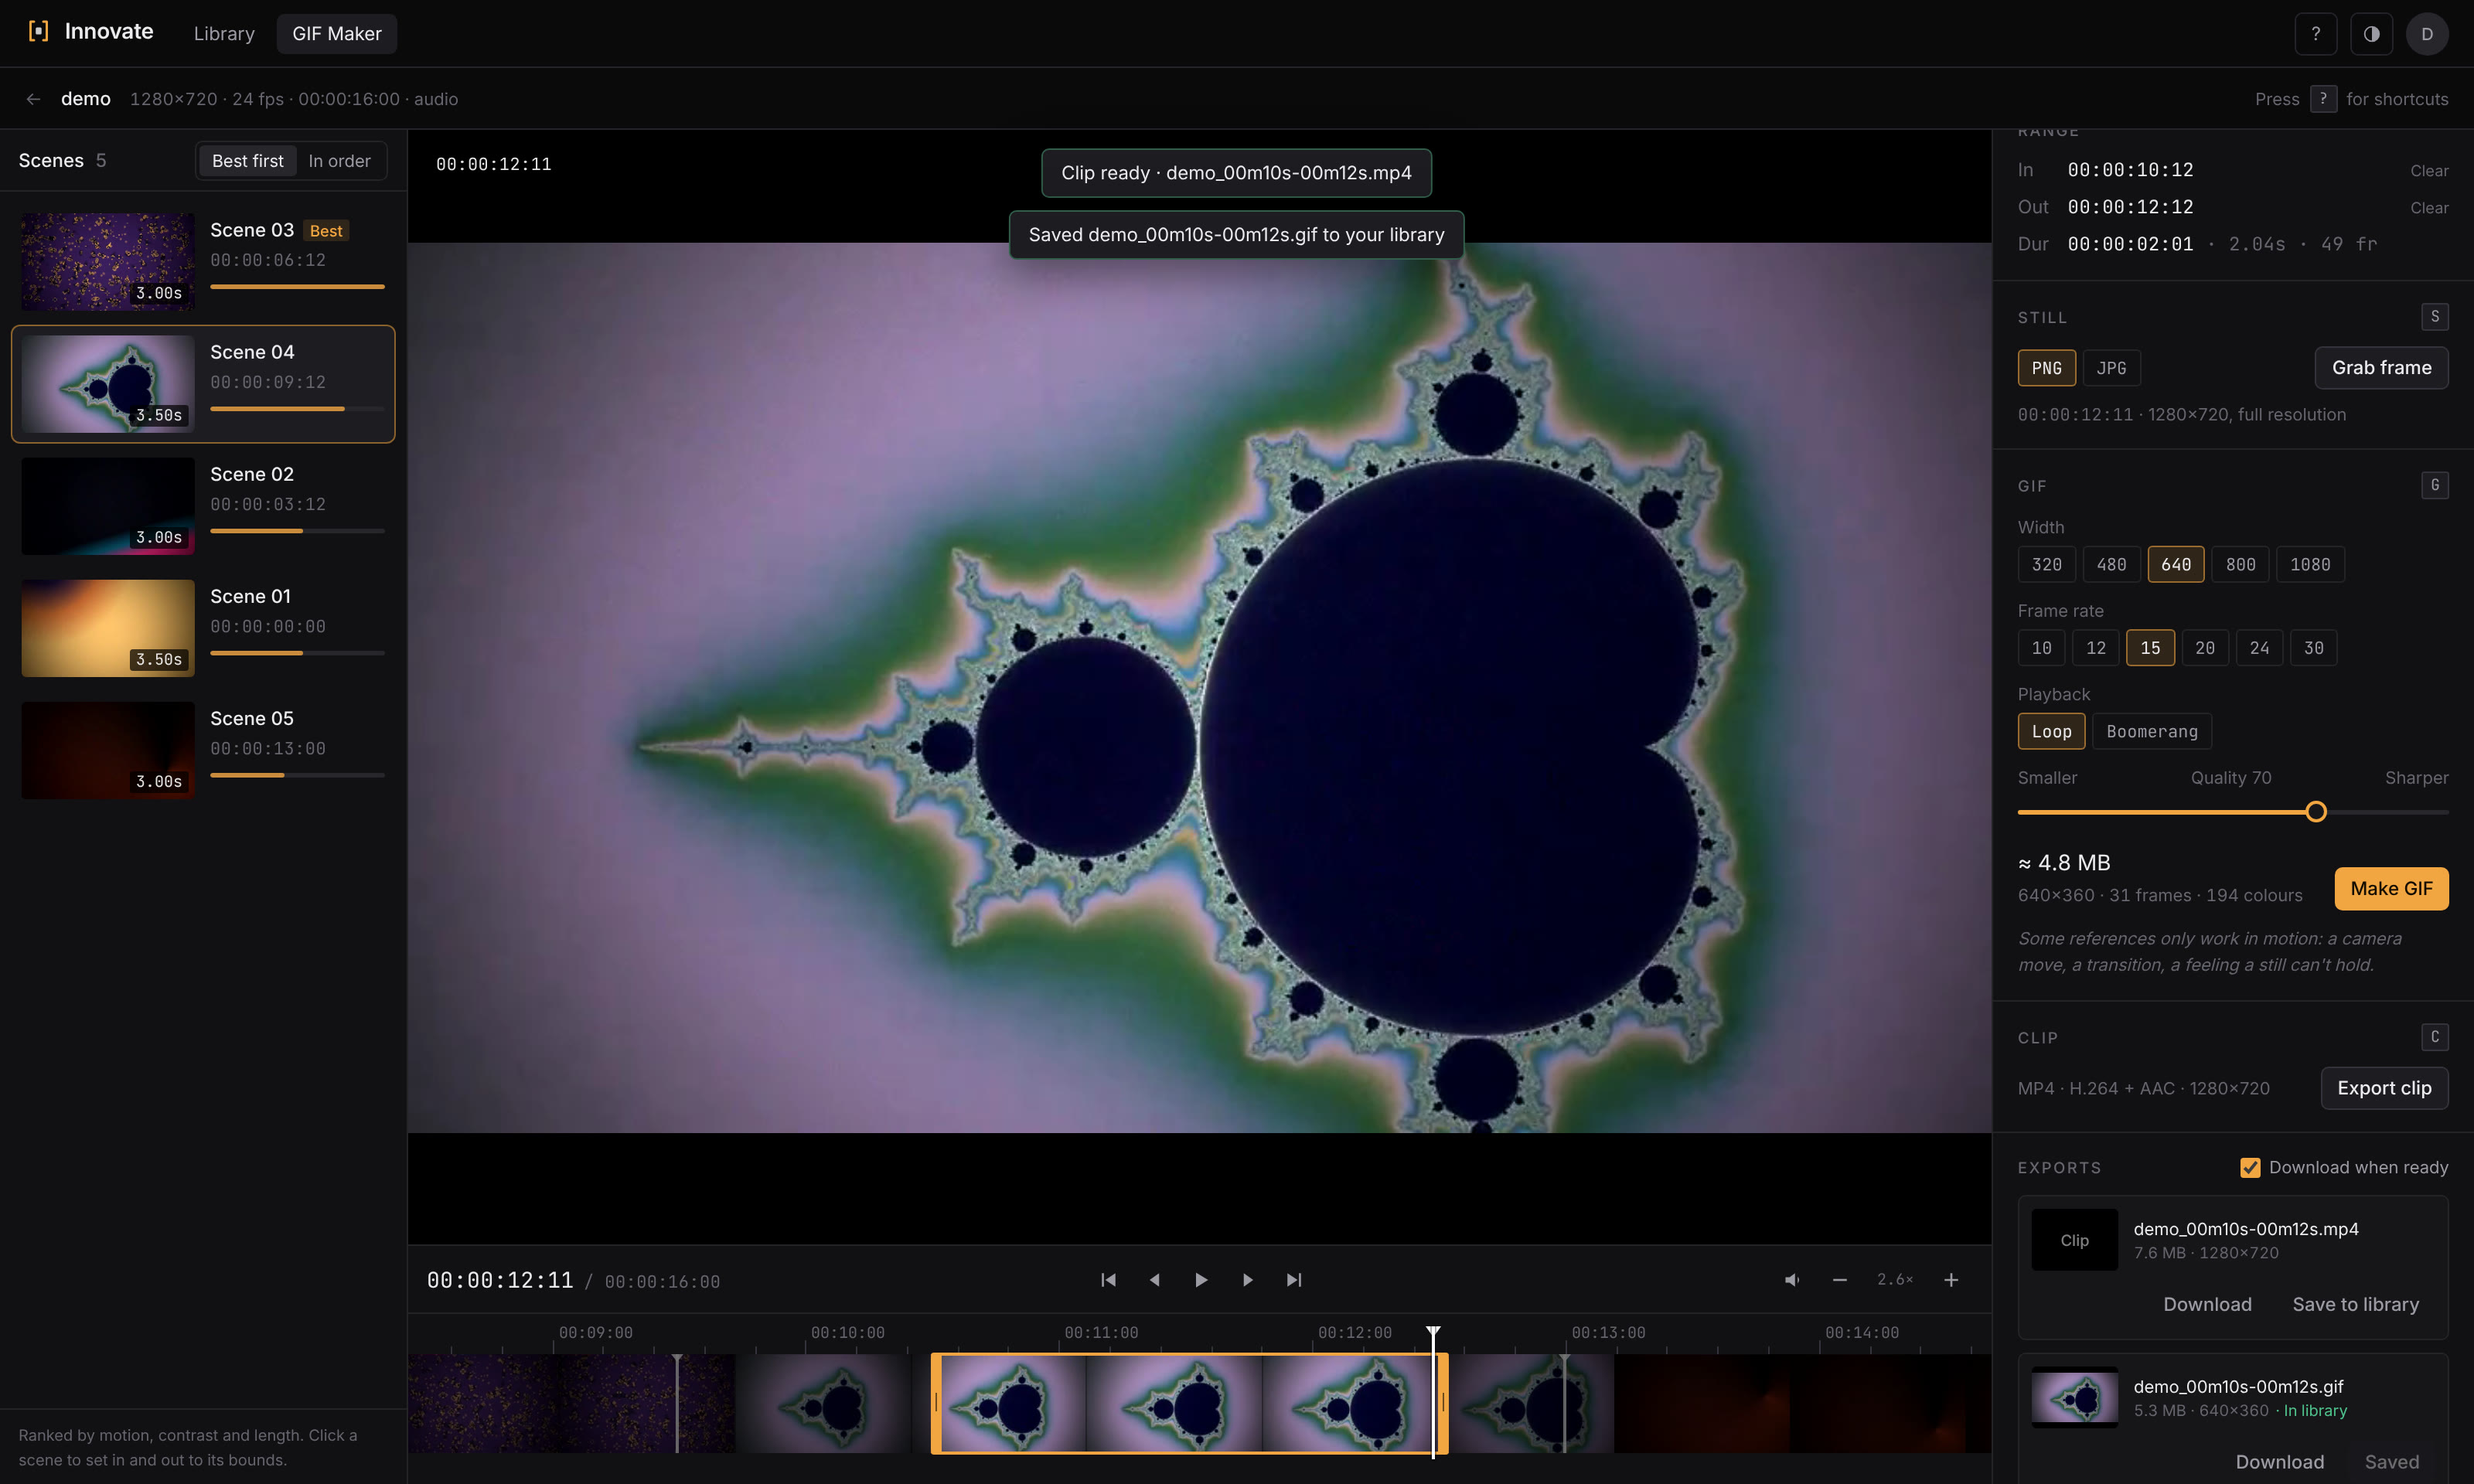
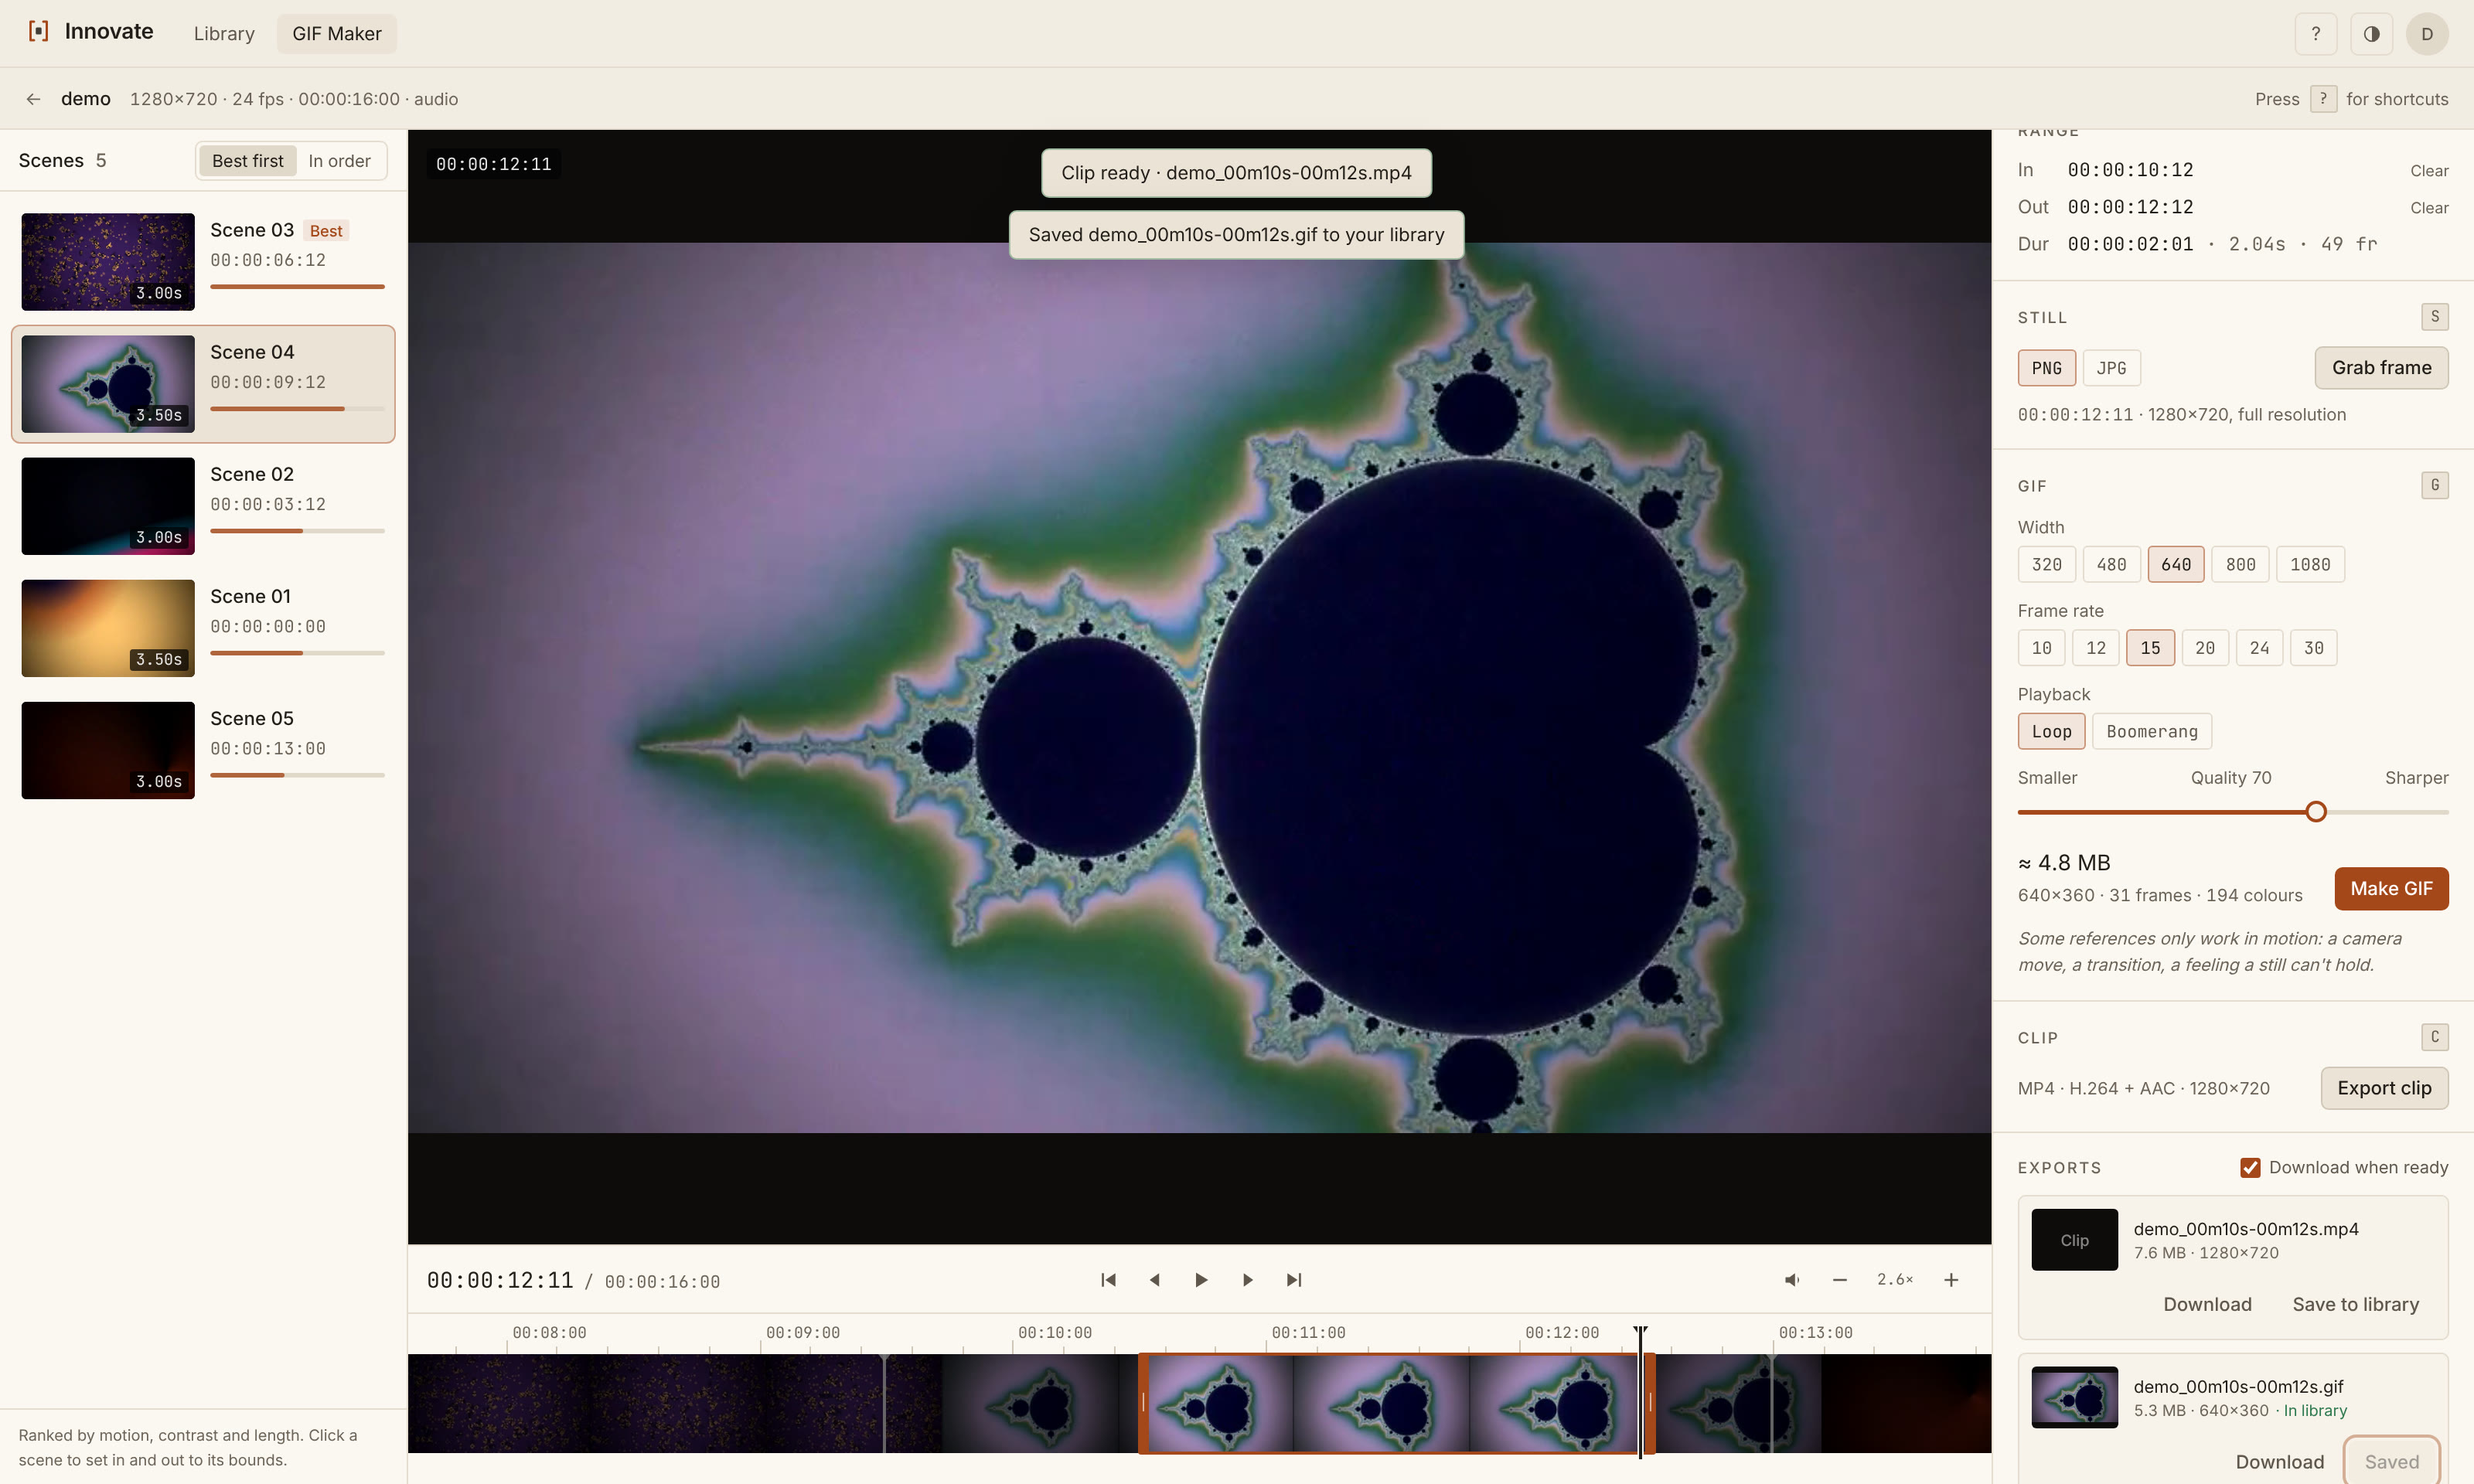
Innovate: default to a warm beige light theme
The app now opens in a light, paper-like theme (beige base, burnt-orange
accent, contrast checked against WCAG AA); dark stays available from the
toggle. The video player and filmstrip stay near-black in both themes so
footage colour reads true. This overrides SPEC §2's dark default, per the
product decision recorded in CLAUDE.md along with the Milanote-style
direction for M2 boards.

- tokens: new light palette, :root now light, dark under [data-theme=dark]
- playhead halo and softer shadows that work on paper and on footage
- screenshots retaken (light by default, plus the dark editor)

Claude-Session: https://claude.ai/code/session_01D2mtqCz3z1ammiFNoeLEXk

diff --git a/innovate/packages/shared/src/tokens.ts b/innovate/packages/shared/src/tokens.ts
@@ -1,5 +1,6 @@
 /**
  * Design tokens: the one place colors, spacing, type and radii are defined (SPEC §2).
+ * Decision (after M1): the app defaults to the warm light theme; dark is the alternative.
  * `pnpm tokens` renders them to tokens.css as CSS variables + a Tailwind v4 @theme block;
  * a unit test fails if tokens.css is stale. Canvas code reads the same CSS variables.
  */
@@ -27,27 +28,28 @@ export const colors = {
     scrim: "rgba(0, 0, 0, 0.72)",
     playhead: "#ffffff",
   },
+  /** Default: warm paper. The player and filmstrip stay near-black so footage colour reads true. */
   light: {
-    bg: "#f3f3f1",
-    surface: "#ffffff",
-    "surface-2": "#f8f8f6",
-    "surface-3": "#ededea",
-    "surface-4": "#e2e2de",
-    border: "#e0e0db",
-    "border-strong": "#c9c9c3",
-    text: "#141416",
-    "text-muted": "#5b5b64",
-    "text-faint": "#8b8b93",
-    accent: "#b46500",
-    "accent-strong": "#9a5600",
+    bg: "#f2ede3",
+    surface: "#fbf8f2",
+    "surface-2": "#f7f3ea",
+    "surface-3": "#ebe4d6",
+    "surface-4": "#e0d8c8",
+    border: "#e3dccf",
+    "border-strong": "#cfc6b5",
+    text: "#211d18",
+    "text-muted": "#5f574c",
+    "text-faint": "#6b6357",
+    accent: "#a4481a",
+    "accent-strong": "#8c3c13",
     "accent-fg": "#ffffff",
-    "accent-soft": "rgba(180, 101, 0, 0.12)",
-    "accent-line": "rgba(180, 101, 0, 0.55)",
-    danger: "#c93434",
-    success: "#1f8a5a",
-    player: "#0a0a0b",
-    scrim: "rgba(10, 10, 11, 0.6)",
-    playhead: "#141416",
+    "accent-soft": "rgba(164, 72, 26, 0.10)",
+    "accent-line": "rgba(164, 72, 26, 0.5)",
+    danger: "#b3261e",
+    success: "#2e7a4f",
+    player: "#0d0c0b",
+    scrim: "rgba(33, 29, 24, 0.45)",
+    playhead: "#211d18",
   },
 } as const;
 
@@ -87,8 +89,8 @@ export function renderTokensCss(): string {
     for (const [name, value] of Object.entries(colors[scheme])) lines.push(`  --in-${name}: ${value};`);
     lines.push("}");
   };
-  block(':root,\n[data-theme="dark"]', "dark");
-  block('[data-theme="light"]', "light");
+  block(':root,\n[data-theme="light"]', "light");
+  block('[data-theme="dark"]', "dark");
   lines.push(":root {");
   lines.push(`  --in-ease: ${motion.ease};`);
   lines.push(`  --in-fast: ${motion.fast};`);

diff --git a/innovate/packages/shared/tokens.css b/innovate/packages/shared/tokens.css
@@ -1,5 +1,28 @@
 /* GENERATED by packages/shared/scripts/build-tokens.ts from src/tokens.ts. Do not edit; run `pnpm tokens`. */
 :root,
+[data-theme="light"] {
+  color-scheme: light;
+  --in-bg: #f2ede3;
+  --in-surface: #fbf8f2;
+  --in-surface-2: #f7f3ea;
+  --in-surface-3: #ebe4d6;
+  --in-surface-4: #e0d8c8;
+  --in-border: #e3dccf;
+  --in-border-strong: #cfc6b5;
+  --in-text: #211d18;
+  --in-text-muted: #5f574c;
+  --in-text-faint: #6b6357;
+  --in-accent: #a4481a;
+  --in-accent-strong: #8c3c13;
+  --in-accent-fg: #ffffff;
+  --in-accent-soft: rgba(164, 72, 26, 0.10);
+  --in-accent-line: rgba(164, 72, 26, 0.5);
+  --in-danger: #b3261e;
+  --in-success: #2e7a4f;
+  --in-player: #0d0c0b;
+  --in-scrim: rgba(33, 29, 24, 0.45);
+  --in-playhead: #211d18;
+}
 [data-theme="dark"] {
   color-scheme: dark;
   --in-bg: #0a0a0b;
@@ -22,29 +45,6 @@
   --in-player: #000000;
   --in-scrim: rgba(0, 0, 0, 0.72);
   --in-playhead: #ffffff;
-}
-[data-theme="light"] {
-  color-scheme: light;
-  --in-bg: #f3f3f1;
-  --in-surface: #ffffff;
-  --in-surface-2: #f8f8f6;
-  --in-surface-3: #ededea;
-  --in-surface-4: #e2e2de;
-  --in-border: #e0e0db;
-  --in-border-strong: #c9c9c3;
-  --in-text: #141416;
-  --in-text-muted: #5b5b64;
-  --in-text-faint: #8b8b93;
-  --in-accent: #b46500;
-  --in-accent-strong: #9a5600;
-  --in-accent-fg: #ffffff;
-  --in-accent-soft: rgba(180, 101, 0, 0.12);
-  --in-accent-line: rgba(180, 101, 0, 0.55);
-  --in-danger: #c93434;
-  --in-success: #1f8a5a;
-  --in-player: #0a0a0b;
-  --in-scrim: rgba(10, 10, 11, 0.6);
-  --in-playhead: #141416;
 }
 :root {
   --in-ease: cubic-bezier(0.2, 0, 0, 1);

diff --git a/innovate/apps/web/components/shell/ShortcutsOverlay.tsx b/innovate/apps/web/components/shell/ShortcutsOverlay.tsx
@@ -29,7 +29,7 @@ export function ShortcutsProvider({ children }: { children: React.ReactNode }) {
           <Dialog.Overlay className="fixed inset-0 z-40 bg-scrim backdrop-blur-[2px]" />
           <Dialog.Content
             aria-describedby={undefined}
-            className="fixed top-1/2 left-1/2 z-50 max-h-[85vh] focus:outline-none w-[min(760px,calc(100vw-32px))] -translate-x-1/2 -translate-y-1/2 overflow-auto rounded-lg border border-border-strong bg-surface-2 p-6 shadow-[0_24px_80px_rgba(0,0,0,0.6)]"
+            className="fixed top-1/2 left-1/2 z-50 max-h-[85vh] focus:outline-none w-[min(760px,calc(100vw-32px))] -translate-x-1/2 -translate-y-1/2 overflow-auto rounded-lg border border-border-strong bg-surface-2 p-6 shadow-[0_24px_80px_rgba(0,0,0,0.28)]"
           >
             <div className="mb-5 flex items-baseline justify-between">
               <Dialog.Title className="text-lg font-semibold">Keyboard shortcuts</Dialog.Title>

diff --git a/innovate/apps/web/app/layout.tsx b/innovate/apps/web/app/layout.tsx
@@ -11,10 +11,10 @@ export const metadata: Metadata = {
   description: "Collect, cut and present visual references.",
 };
 
-export const viewport: Viewport = { themeColor: "#0a0a0b", colorScheme: "dark light" };
+export const viewport: Viewport = { themeColor: "#f2ede3", colorScheme: "dark light" };
 
 export default async function RootLayout({ children }: { children: React.ReactNode }) {
-  const theme = (await cookies()).get("innovate-theme")?.value === "light" ? "light" : "dark";
+  const theme = (await cookies()).get("innovate-theme")?.value === "dark" ? "dark" : "light";
   return (
     <html lang="en" data-theme={theme} className={`${inter.variable} ${mono.variable}`}>
       <body>{children}</body>

diff --git a/innovate/apps/web/components/editor/Timeline.tsx b/innovate/apps/web/components/editor/Timeline.tsx
@@ -307,7 +307,7 @@ export const Timeline = forwardRef<TimelineHandle, Props>(function Timeline(prop
           {/* Playhead. */}
           <div className="pointer-events-none absolute top-0" style={{ left: headX, height: HEIGHT - PAD_B + 4 }} data-testid="playhead">
             <div className="absolute -left-[5px] top-[4px] h-0 w-0 border-x-[5px] border-t-[7px] border-x-transparent border-t-playhead" />
-            <div className="absolute -left-px top-[4px] bottom-0 w-[2px] bg-playhead shadow-[0_0_0_1px_rgba(0,0,0,0.35)]" />
+            <div className="absolute -left-px top-[4px] bottom-0 w-[2px] bg-playhead shadow-[0_0_0_1px_var(--in-surface)]" />
           </div>
         </div>
       </div>

diff --git a/innovate/apps/web/components/ui/Toasts.tsx b/innovate/apps/web/components/ui/Toasts.tsx
@@ -28,7 +28,7 @@ export function ToastProvider({ children }: { children: React.ReactNode }) {
           <div
             key={t.id}
             role={t.tone === "error" ? "alert" : "status"}
-            className={`rounded-md border bg-surface-3 px-3 py-1.5 text-sm shadow-[0_8px_30px_rgba(0,0,0,0.5)] ${
+            className={`rounded-md border bg-surface-3 px-3 py-1.5 text-sm shadow-[0_8px_30px_rgba(0,0,0,0.18)] ${
               t.tone === "error" ? "border-danger/50 text-danger" : t.tone === "success" ? "border-success/40 text-text" : "border-border-strong text-text"
             }`}
           >

diff --git a/innovate/apps/web/app/(app)/layout.tsx b/innovate/apps/web/app/(app)/layout.tsx
@@ -14,7 +14,7 @@ export default async function AppLayout({ children }: { children: React.ReactNod
     "use server";
     await signOut({ redirectTo: "/login" });
   }
-  const theme = (await cookies()).get("innovate-theme")?.value === "light" ? "light" : "dark";
+  const theme = (await cookies()).get("innovate-theme")?.value === "dark" ? "dark" : "light";
   const initial = (ctx.user.name || ctx.user.email || "?").slice(0, 1).toUpperCase();
   return (
     <ToastProvider>

diff --git a/innovate/apps/web/components/shell/ThemeToggle.tsx b/innovate/apps/web/components/shell/ThemeToggle.tsx
@@ -1,7 +1,7 @@
 "use client";
 import { useState } from "react";
 
-/** Dark is the default; light is a secondary option (SPEC §2). Stored in a cookie so SSR renders it. */
+/** Warm light is the default; dark is the alternative. Stored in a cookie so SSR renders it. */
 export function ThemeToggle({ initial }: { initial: "dark" | "light" }) {
   const [theme, setTheme] = useState(initial);
   const toggle = () => {

diff --git a/innovate/CLAUDE.md b/innovate/CLAUDE.md
@@ -51,6 +51,11 @@ fixtures/        Generated test media (gitignored)
 - **zod on every input**; API errors are `{ error: "readable sentence" }`.
 - **Design tokens** live in `packages/shared/src/tokens.ts`; use Tailwind classes generated from them
   (`bg-surface-2`, `text-text-muted`, `border-border`, `text-accent`, `timecode` utility). No raw hex in components.
+- **Theme (decided after M1, overrides SPEC §2's dark default):** the app defaults to a warm beige
+  light theme; dark is the toggle option. The video player and filmstrip stay near-black in both so
+  footage colour reads true. Boards (M2) take their interaction model from Milanote-style free canvases:
+  cards, columns (= clusters), nested boards, a card toolbar and an Unsorted tray. Borrow patterns,
+  not Milanote's branding or visuals.
 - **Honest gaps:** anything stubbed carries `TODO(M#)`.
 - Env vars: all in `.env.example`; apps read `innovate/.env`. Never commit `.env`.
 - MinIO image: `chainguard/minio` (MinIO stopped publishing community images on Docker Hub).
